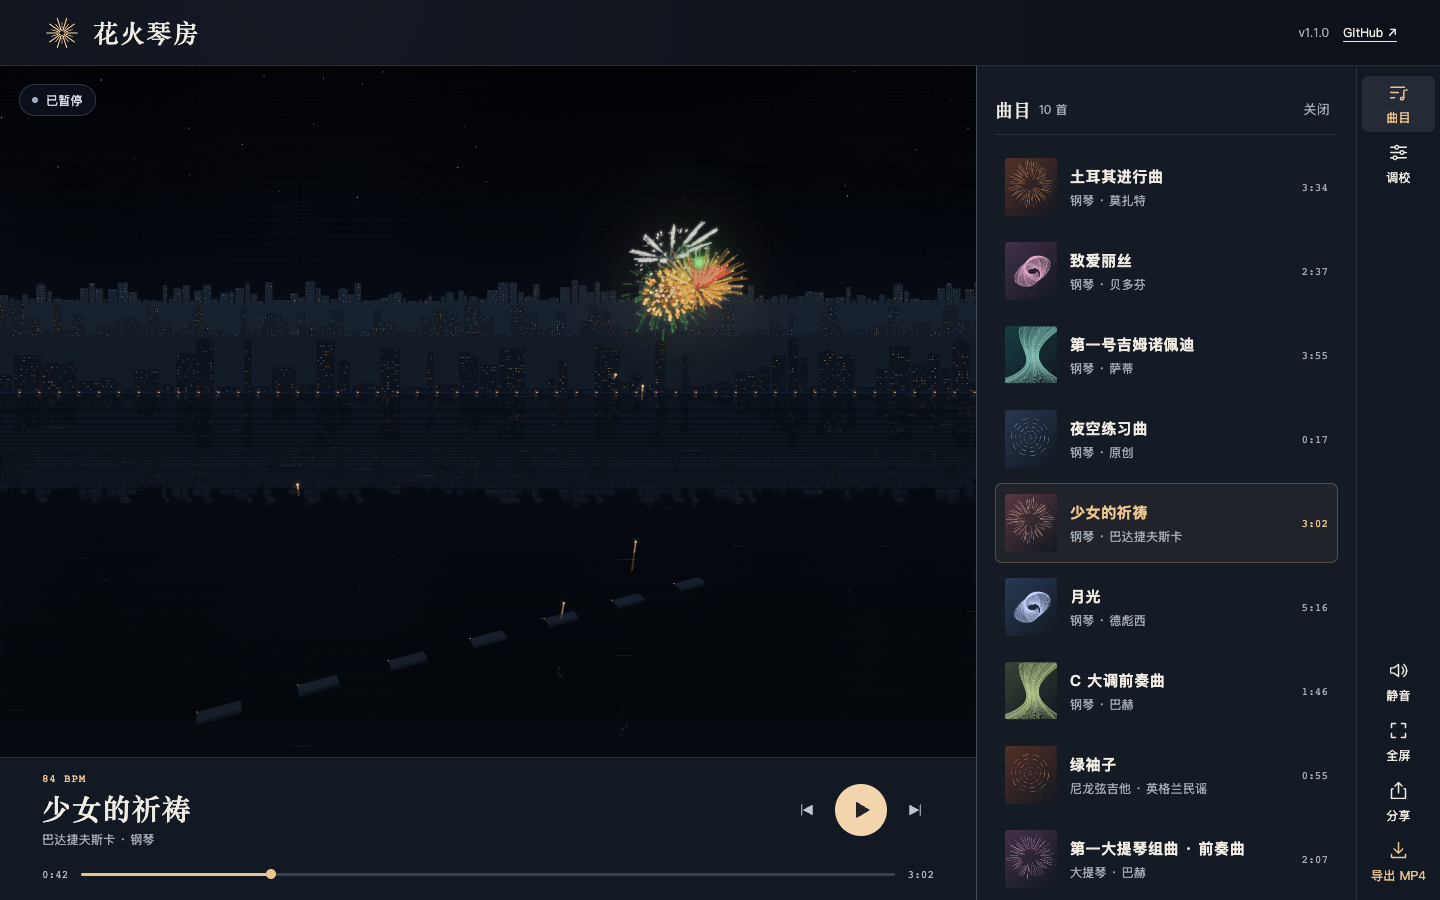
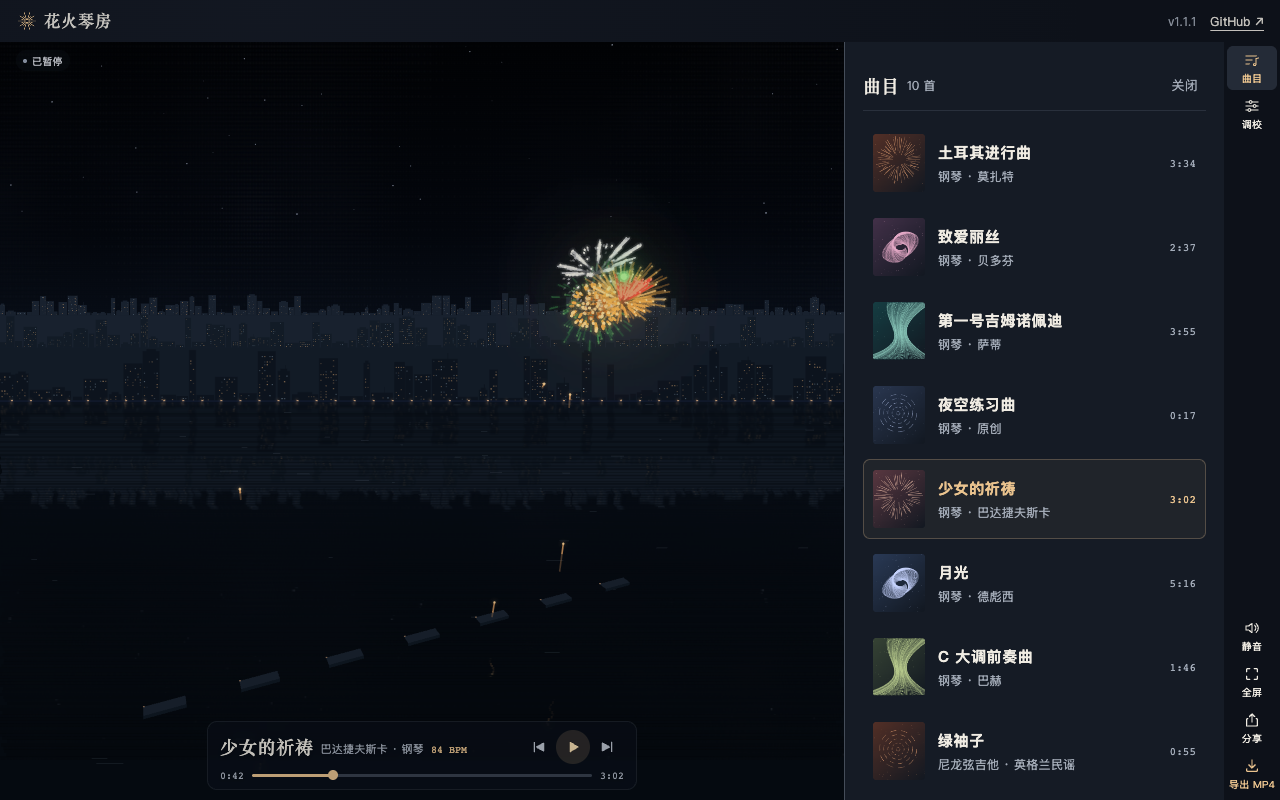
Center the immersive player and fade controls during playback

diff --git a/tuning-preview.css b/tuning-preview.css
@@ -43,23 +43,44 @@
 @media(pointer:coarse){.previewPanels .optionChip,.previewPanels .blockRail,.previewPanels .blockRail input,.compareTable th button{min-height:44px}.blockRail::before{inset:13px 0}}
 
 /* The hall leaves the stage and transport in view; tools open beside the rail. */
-.hall{--rail:84px;--mast:66px}
-.hall .mast{width:100%;height:var(--mast);min-height:0;padding:0 clamp(16px,3vw,44px)}
+.hall{--rail:56px;--mast:42px}
+.hall .mast{position:absolute;inset:0 0 auto;z-index:2;width:100%;height:var(--mast);min-height:0;padding:0 16px;border:0;pointer-events:none}
+.hall .mast a{pointer-events:auto}
+.hall .brand{gap:6px}.hall .brand canvas{width:22px;height:22px}.hall .brand h1{font-size:16px}
 .releaseLinks{display:flex;gap:14px;align-items:center;color:var(--muted);font-size:12px}
 .releaseLinks a{color:var(--cream);text-underline-offset:4px}
-.hall main{width:100%;height:calc(100dvh - var(--mast));min-height:310px;padding:0;gap:0;grid-template-columns:minmax(0,1fr) var(--rail);grid-template-rows:minmax(0,1fr);align-items:stretch}
-.hall main:has(#mobilePanel[open]){grid-template-columns:minmax(0,1fr) clamp(264px,30vw,380px) var(--rail)}
+.hall main{width:100%;height:100dvh;min-height:310px;position:relative;padding:0;gap:0;grid-template-columns:minmax(0,1fr);grid-template-rows:minmax(0,1fr);align-items:stretch}
+.hall main:has(#mobilePanel[open]){padding-top:var(--mast);grid-template-columns:minmax(0,1fr) clamp(264px,30vw,380px) var(--rail)}
 .hall main > .concert{grid-area:1 / 1}
 .hall main > .hallRail{grid-area:1 / -2 / -1 / -1}
 .hall .concert{position:relative;top:0;display:flex;flex-direction:column;border:0;border-radius:0}
-.hall .viewer{flex:1;height:auto}.hall .deck{padding:13px clamp(14px,3vw,42px) 15px}
+.hall .viewer{flex:1;height:auto}
+.hall .deck{position:absolute;inset-inline:0;margin-inline:auto;bottom:max(10px,env(safe-area-inset-bottom));width:min(430px,calc(100% - 2 * var(--rail) - 12px));padding:8px 12px 4px;gap:1px 8px;border:1px solid #d1d8df18;border-radius:10px;background:#0d14205c;text-shadow:0 1px 4px #03070e;backdrop-filter:blur(5px)}
+.hall main:has(#mobilePanel[open]) .deck{width:min(430px,calc(100% - 28px))}
+.hall .details{display:flex;align-items:baseline;flex-wrap:wrap;gap:0 7px}
+.hall .details h2{order:-2;font-size:18px}.hall .details #artist{order:-1;overflow:hidden;text-overflow:ellipsis;white-space:nowrap;max-width:100%;margin:0;font-size:11px}
+.hall .details #tempo{font-size:10px;letter-spacing:0}
+.hall .controls{gap:0}
+.hall .controls button{width:34px;height:34px}.hall .controls svg{width:16px;height:16px}
+.hall .play{background:#eac38e29;color:#f9dfb2}.hall .play:hover{background:#eac38e47;color:#fff0d6}
+.hall .progress{gap:8px;font-size:10px}.hall .progress input{height:20px}
+.hall .viewbar{top:var(--mast);left:16px}.hall .live{min-height:21px;padding:0 7px;gap:5px;border:0;backdrop-filter:none;background:#10162150;font-size:10px}
+.hall .live b{width:4px;height:4px}
+.hall main:has(#mobilePanel[open]) .viewbar{top:8px}
 .hall .concert.theater{position:fixed}
 .hall .concert:is(:fullscreen,.theater){inset:0;width:100%;height:100%}
-.hallRail.panelTools{position:relative;flex-flow:column nowrap;align-items:stretch;gap:4px;padding:10px 5px;margin:0;background:var(--panel);border-left:1px solid var(--edge);overflow-y:auto}
-.hallRail.panelTools button{flex:0 0 auto;min-height:56px;display:flex;justify-content:center;flex-direction:column;gap:6px;padding:5px 0;border:0;border-radius:6px;font-size:12px}
-.hallRail.panelTools svg{width:21px;height:21px}.hallRail #exportVideo{margin-left:0}
+.hallRail.panelTools{position:absolute;inset:var(--mast) 0 0 auto;z-index:1;width:var(--rail);flex-flow:column nowrap;align-items:stretch;gap:2px;padding:4px 3px;margin:0;background:transparent;border:0;overflow-y:auto}
+.hallRail.panelTools button{flex:0 0 auto;min-height:44px;display:flex;justify-content:center;flex-direction:column;gap:3px;padding:4px 0;border:0;border-radius:6px;font-size:10px}
+.hallRail.panelTools svg{width:16px;height:16px}.hallRail #exportVideo{margin-left:0}
 .hallRail button:is(:hover,[aria-expanded=true]){background:#242b37;color:var(--gold)}
 .railSpace{flex:1}
+.hall main:has(#mobilePanel[open]) .hallRail{position:relative;inset:auto}
+.hall :is(.mast,.deck,.viewbar,.hallRail){opacity:.8;transition:opacity .22s ease}
+.hall :is(.deck,.hallRail,.mast):is(:hover,:focus-within){opacity:1}
+.hall.controlsIdle :is(.mast,.deck,.viewbar,.hallRail){opacity:0;pointer-events:none}
+.hall.controlsIdle .mast a{pointer-events:none}
+.hall.controlsIdle #scene{cursor:none}
+@media(prefers-reduced-motion:reduce){.hall :is(.mast,.deck,.viewbar,.hallRail,.play){transition:none}}
 .hall #mobilePanel{position:static;grid-area:1 / 2;inset:auto;margin:0;width:100%;height:100%;min-height:0;min-width:0;overscroll-behavior:contain;background:#151b25;border-left:1px solid #454d59;padding:12px 18px}
 .hall #closePanel{display:block;margin-left:auto;font:13px system-ui;color:var(--muted)}
 .panelHeading{position:sticky;top:-12px;z-index:2;display:flex;align-items:center;gap:8px;background:#151b25;padding:8px 0;border-bottom:1px solid var(--edge)}
@@ -69,8 +90,8 @@
 .hall #mobilePanel #tuning{padding-top:6px}
 .hall .exportResult:not(:has(#exportStatus:not(:empty))){display:none}
 .hall .exportResult{position:fixed;right:calc(var(--rail) + 10px);bottom:12px;z-index:6;background:#151b25;border:1px solid var(--edge);border-radius:6px;padding:8px 12px;max-width:calc(100vw - var(--rail) - 22px)}
-@media(max-width:760px){.hall{--rail:60px;--mast:52px}.hall .details h2{font-size:19px}.hall .deck{gap:5px}.hallRail.panelTools button{min-height:49px;font-size:11px}.hall .deck .controls{gap:0}.hall #mobilePanel{padding-inline:12px}.hall .details #artist{line-height:1.35}.hall .deck .play{height:38px;width:38px}}
-@media(max-height:540px){.hall{--mast:44px}.hallRail.panelTools{padding-block:2px;gap:0}.hallRail.panelTools button{min-height:38px;gap:1px}.hallRail.panelTools svg{height:16px}.hall .deck{padding-block:5px}}
+@media(max-width:760px){.hall{--rail:50px;--mast:38px}.hall .details h2{font-size:16px}.hall .deck{padding:5px 8px 2px;gap:0 4px}.hallRail.panelTools button{min-height:44px;font-size:10px}.hall .deck .controls{gap:0}.hall #mobilePanel{padding-inline:12px}.hall .details #artist{line-height:1.35}}
+@media(max-height:540px){.hall{--mast:32px}.hallRail.panelTools{padding-block:2px;gap:0}.hallRail.panelTools button{min-height:38px;gap:1px}.hallRail.panelTools svg{height:16px}.hall .deck{padding-block:5px}}
 
 #shapes{grid-template-columns:repeat(auto-fit,minmax(min(74px,100%),1fr));gap:5px}
 #shapes button{position:relative;display:grid;overflow:hidden;min-width:0;padding:0;border-radius:6px;background:#151b25;color:var(--quiet);text-align:left}
@@ -113,3 +134,5 @@
 #tuningNotes dt{margin-top:8px;color:var(--ink)}
 #tuningNotes dd{margin:2px 0 0;font-size:12px;line-height:1.5}
 @media(pointer:coarse){.adjustGroup summary{min-height:44px}}
+
+@media(pointer:coarse){.hall .controls button{width:44px;height:44px}.hall .progress input{height:28px}}

diff --git a/player.js b/player.js
@@ -81,7 +81,7 @@
     const text=document.createElement('span'),label=document.createElement('strong'),author=document.createElement('small');
     label.textContent=track.title;author.textContent=(track.instrument || '钢琴')+' · '+track.composer;text.append(label,author);
     const len=document.createElement('span');len.className='len';len.textContent=time(track.duration);
-    button.append(art,text,len);button.onclick=()=>{if(index!==i)select(i);play()};
+    button.append(art,text,len);button.onclick=()=>{if(index!==i)select(i);drawer.close();play()};
     $('tracks').append(button);
     if(track.source){
       const a=document.createElement('a');a.href=track.source;a.textContent=track.title+' ↗';a.target='_blank';a.rel='noopener noreferrer';$('sourceLinks').append(a);
@@ -152,7 +152,11 @@
   }
   function request(){if(!frame&&!document.hidden)frame=requestAnimationFrame(draw)}
   $('play').onclick=toggle;
-  $('scene').onclick=()=>{if(isFull())exitShow();else toggle()};
+  $('scene').onclick=()=>{
+    if(isFull())exitShow();
+    else if(!wakeOnlyTap)toggle();
+    wakeOnlyTap=false;
+  };
   $('previous').onclick=()=>{select(index-1);play()};$('next').onclick=()=>{select(index+1);play()};
   $('mute').onclick=()=>{muted=!muted;remember('muted',String(muted));syncSound();refresh()};
   function updateSection(time){
@@ -284,6 +288,7 @@
       $('count').hidden=!tracksVisible;
       $('panelTitle').textContent=opener.textContent.trim();
       if(!drawer.open)drawer.show();
+      showControls();
       if(sharing)updateShare();
       keyState=null;request();
       drawer.scrollTop=0;
@@ -292,11 +297,37 @@
   }
   $('closePanel').onclick=()=>drawer.close();
   drawer.addEventListener('close',()=>{if(!drawer.open && opener){opener.setAttribute('aria-expanded','false');opener.focus({preventScroll:true});opener=null}});
-  if(matchMedia('(min-width:701px)').matches){
+  if(window.TuningPreview?.trial && matchMedia('(min-width:701px)').matches){
     opener=$('railTuning');
     opener.setAttribute('aria-expanded','true');
     drawer.open=true;
   }
+  // An idle stage keeps its dimensions. Only its controls fade.
+  let idleTimer, pointerHeld=false, keyboardNavigation=false, wakeOnlyTap=false;
+  function showControls(){
+    clearTimeout(idleTimer);
+    document.body.classList.remove('controlsIdle');
+    if(audio.paused || audio.ended || pointerHeld || drawer.open || $('credits').open || document.hidden)return;
+    if(keyboardNavigation && document.activeElement?.closest('.deck,.hallRail,.mast'))return;
+    idleTimer=setTimeout(()=>document.body.classList.add('controlsIdle'),3000);
+  }
+  document.addEventListener('pointermove',e=>{
+    if(e.pointerType==='touch')return;
+    keyboardNavigation=false;
+    showControls();
+  },{passive:true});
+  document.addEventListener('pointerdown',e=>{
+    wakeOnlyTap=e.pointerType!=='mouse' && e.target===$('scene') && document.body.classList.contains('controlsIdle');
+    pointerHeld=true;keyboardNavigation=false;showControls();
+  },{passive:true});
+  function releasePointer(){pointerHeld=false;showControls()}
+  for(const type of ['pointerup','pointercancel','blur'])window.addEventListener(type,releasePointer);
+  document.addEventListener('keydown',()=>{keyboardNavigation=true;wakeOnlyTap=false;showControls()},true);
+  document.addEventListener('focusin',showControls);
+  drawer.addEventListener('close',showControls);
+  $('credits').addEventListener('close',showControls);
+  for(const type of ['play','pause','ended','error'])audio.addEventListener(type,showControls);
+  document.addEventListener('visibilitychange',showControls);
   function isFull(){return Boolean(document.fullscreenElement)||$('concert').classList.contains('theater')}
   async function exitShow(){
     if(document.fullscreenElement)await document.exitFullscreen();

diff --git a/index.html b/index.html
@@ -9,7 +9,7 @@
 <script>if(location.protocol==='https:'){const s=document.createElement('script');s.defer=true;s.src='https://cloud.umami.is/script.js';s.dataset.websiteId='e01c9f78-4607-4e60-b01c-77c8190b12b4';document.head.append(s)}</script>
 </head>
 <body class="hall">
-<header class="mast"><div class="brand"><canvas id="brandMark" width="88" height="88" aria-hidden="true"></canvas><h1>花火琴房</h1></div><div class="releaseLinks"><span>v1.1.0</span><a href="https://github.com/holynova/piano-fireworks" target="_blank" rel="noopener">GitHub ↗</a></div></header>
+<header class="mast"><div class="brand"><canvas id="brandMark" width="88" height="88" aria-hidden="true"></canvas><h1>花火琴房</h1></div><div class="releaseLinks"><span>v1.1.1</span><a href="https://github.com/holynova/piano-fireworks" target="_blank" rel="noopener">GitHub ↗</a></div></header>
 <main>
 <div class="concert" id="concert">
 <section class="viewer" aria-label="烟花演出">

diff --git a/docs/player-guide.md b/docs/player-guide.md
@@ -4,7 +4,7 @@
 
 ## 播放
 
-首次打开选中《少女的祈祷》。曲库包含莫扎特《土耳其进行曲》、贝多芬《致爱丽丝》、萨蒂《第一号吉姆诺佩迪》、巴达捷夫斯卡《少女的祈祷》、德彪西《月光》、巴赫《C 大调前奏曲》BWV 846 和原创《夜空练习曲》。另有尼龙弦吉他《绿袖子》、大提琴《第一大提琴组曲 · 前奏曲》和马林巴版《演艺人》，节目单会标明乐器。节目单可直接切曲。播放器支持暂停、定位、上下曲、静音、全屏和空格播放。桌面上调校边栏默认展开，与烟花画面并排。点右侧「曲目」或「调校」切换面板。调校分组和花型图册默认展开，可按需折叠，点「关闭」可扩宽画面。窄屏上面板在播放区下方展开。全屏时只显示演出，点击画面或按 Esc 退出，空格可暂停或继续。
+首次打开选中《少女的祈祷》。曲库包含莫扎特《土耳其进行曲》、贝多芬《致爱丽丝》、萨蒂《第一号吉姆诺佩迪》、巴达捷夫斯卡《少女的祈祷》、德彪西《月光》、巴赫《C 大调前奏曲》BWV 846 和原创《夜空练习曲》。另有尼龙弦吉他《绿袖子》、大提琴《第一大提琴组曲 · 前奏曲》和马林巴版《演艺人》，节目单会标明乐器。节目单可直接切曲。播放器支持暂停、定位、上下曲、静音、全屏和空格播放。播放条位于演出画面底部中央。播放时闲置 3 秒，播放条和工具按钮会淡出。移动鼠标或轻触画面即可唤回，触屏首次轻触只显示控件。打开调校时，控件持续可见；桌面边栏与烟花画面并排。点右侧「曲目」或「调校」切换面板。调校分组和花型图册默认展开，可按需折叠，点「关闭」可扩宽画面。窄屏上面板在播放区下方展开。全屏时只显示演出，点击画面或按 Esc 退出，空格可暂停或继续。
 
 烟花场景可选择单个机位，或启用「自动巡镜」，勾选至少两个机位，每个机位可设为 4～20 秒，包含平滑过渡。巡镜以乐曲时间为准，选择随 A、B 方案保存。中景从看台看水岸，近景从侧岸看花瓣，地面仰望以约 1.65 米眼高抬头观看。无人机从约 178 米高处斜看浮台，选「缓移」会沿弧线环绕，选「穿梭」会进一步靠近和爬升，选「固定」会悬停。浏览器启用减少动态效果偏好时，默认使用固定镜头。
 
